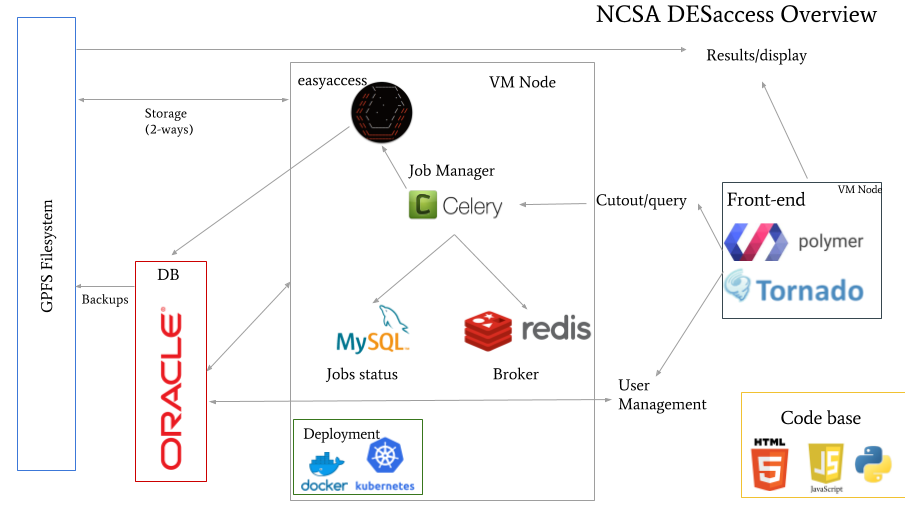
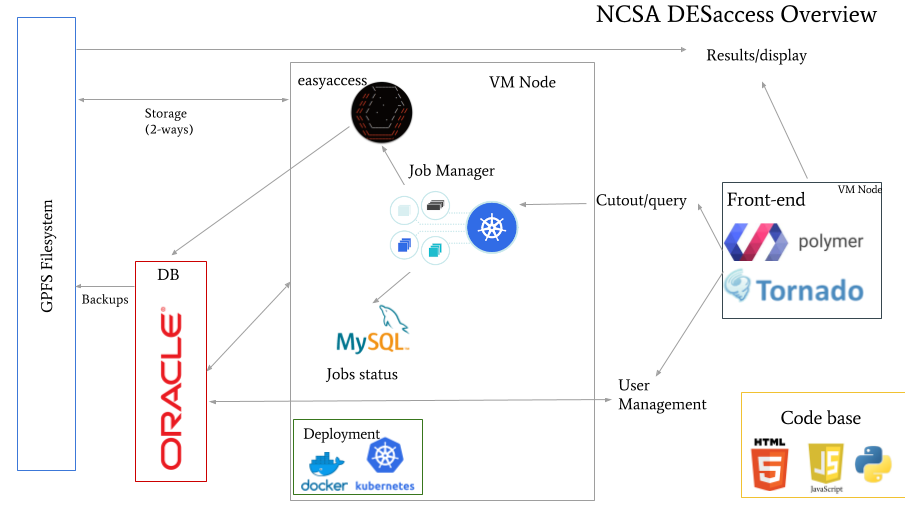
Updates reflecting new DESaccess deployment

Changed region(s): [[0.4331, 0.3557, 0.5878, 0.5336], [0.495, 0.5929, 0.6497, 0.7708]]

diff --git a/static/des_components/des-dr1/des-dr1-ncsa.html b/static/des_components/des-dr1/des-dr1-ncsa.html
@@ -27,20 +27,23 @@
     <paper-button class="desButton" raised on-tap="_goncsa">Go to DESaccess</paper-button>
     <br />
 
-         <p>NCSA provides the primary set of basic web applications to access DES DR1 data. Developed at NCSA, DESaccess provides the user with an asynchronized job submission interface to perform SQL statements against an  Oracle DB which contains the DES DR1 catalogs or to generate cutouts from a given list of positions from the coaddimages. It also contains information regarding the catalogs, an interactive footprint finder to locate positions and tiles and means to access images and catalogs in a tile-based format. Please read the <a href="[[rootPath]]terms">Terms and Conditions</a> before using these interfaces. <br />
+         <p>NCSA provides a primary set of basic web applications and a programmatic API to access DES DR1 data. Developed at NCSA, <a href="https://des.ncsa.illinois.edu/desaccess">DESaccess</a> provides an interface to submit asynchronous jobs that perform potentially lengthy operations involving the DES DR1 catalogs stored on the co-located Oracle database. These jobs include executing SQL statements and generating cutouts from the image data given list of positions and desired areal dimensions. <a href="https://des.ncsa.illinois.edu/desaccess">DESaccess</a> also contains information regarding the catalogs and an app to locate data in a tile-based format by coordinate or tile name for direct download. Please read the <a href="[[rootPath]]terms">Terms and Conditions</a> before using these interfaces. </p>
 
-             The main services can be summarized as follows:</p>
+             <p>The main services can be summarized as follows:</p>
              <p>
-               <strong>SQL web client:</strong> We provide a SQL web client that allows the user to submit asynchronous query jobs against the Oracle 12 database which contains the DES DR1 tables, the submitted jobs enter into a queue and results can be retrieved at later times in either csv, FITS (<a href="http://adsabs.harvard.edu/abs/1981A%26AS...44..363W">Wells et al. 1981</a>) or HDF5 (<a href="http://www.hdfgroup.org/HDF5/">The HDF Group 1997-NNNN</a>) file format, supporting compression in some of the cases. Big jobs are divided into chunks of 1.5GB to facilitate file transfer. This interface also provides means to check syntax and to evaluate synchronous jobs for a quick view. Result files are served from a HTTP server which allows file transfer to remote machines. The query used and the results are persisted for a limited period of time under a “My-Jobs” tab. The query interface is powered using <a href="https://github.com/mgckind/easyaccess">easyaccess</a>, a enhance SQL command line interpreter designed for astronomical surveys and developed for DES.</p>
+               <strong>SQL web client:</strong> We provide a SQL web client that allows the user to submit asynchronous query jobs against the Oracle 12 database which contains the DES DR1 tables. The submitted jobs enter a queue and results can be retrieved when the job completes in one of several file formats, including CSV, FITS (<a href="http://adsabs.harvard.edu/abs/1981A%26AS...44..363W">Wells et al. 1981</a>) and HDF5 (<a href="http://www.hdfgroup.org/HDF5/">The HDF Group 1997-NNNN</a>), supporting compression in some of the cases. Big jobs are divided into smaller chunks to facilitate file transfer. This interface also provides a means to check syntax and to run shorter, synchronous jobs for quick results. The query interface is powered by <a href="https://github.com/des-labs/easyaccess">easyaccess</a>, an enhanced SQL command line interpreter designed for astronomical surveys and developed for DES.</p>
              <p>
-               <strong>Cutout server:</strong> The cutout server allows the user to generate cutouts up to 15' on a side centered on a given set of positions, the returned files include all the cutouts in all the bands, a cutout in the detection image, a color TIFF image using STIFF (<a href="http://adsabs.harvard.edu/abs/2012ASPC..461..263B">Bertin 2012</a>) by combining the g, r and i bands, and a PNG image. These cutout jobs also go into a queue and results can retrieve later from the files served remotely. The header of the cutouts is a copy from the original header from the images with extra keys indicating the center of the cutout RA_CUTOUT and DEC_CUTOUT. Results are preserved for a limit period of time and can also be retrieved under a “My-Jobs” tab within the web service. No stitching is performed for objects near the edge of the tile. This feature might be added in the future.</p>
+               <strong>Cutout server:</strong> The cutout server allows the user to generate cutouts from the survey image data centered on a given set of positions, with areal dimensions up to 12 arcminutes on a side. Returned files may include image data cutouts in the selected bands in FITS format as well as tri-color composite images in PNG format generated using the STIFF (<a href="http://adsabs.harvard.edu/abs/2012ASPC..461..263B">Bertin 2012</a>) format or the Lupton method. The header of the cutout files is a copy from the original header from the images with extra keys indicating the center of the cutout RA_CUTOUT and DEC_CUTOUT. No stitching is performed for objects near the edge of the tile.</p>
              <p>
-               <strong>Footprint:</strong> A light-weight interactive tool which displays the DES footprint and its tiles. This tool can be used to search for a position in the sky and return the tile information regarding the tile name, corner coordinates, and list of files for download. It also allows searches by tilename when the name is available. This service also provides access to all the processed tiles,  including images and catalogs in a tile based directly from the file server.</p>
+               <strong>TileFinder:</strong> A light-weight interactive tool which returns direct data tile download links matching the search query, which can be either sky RA/DEC coordinates or the explicit tile name. This service also provides access to all the processed tiles, including images and catalogs in a tile based directly from the file server.</p>
+              <p>
+                Job output files are served from a standard HTTP server to enable file transfer to remote machines. Job information and links to the generated files remain available for a limited duration, providing time to download results before clearing the space for other users.
+              </p>
              <p>
-               <a href="https://github.com/mgckind/desaccess">DESaccess code</a> as well as the <a href="https://github.com/mgckind/des_public_new">release page</a> are open sourced. The frontend was developed using web components, HTML, JS and <a href="https://www.polymer-project.org/">Polymer</a> which allows the re-use of already existing elements. The backend is mainly developed using the Python <a href="http://www.tornadoweb.org/en/stable/">Tornado web framework</a>. The submission jobs are handled by <a href="http://www.celeryproject.org/">Celery</a> which is a distributed queue manager written in Python. All of these applications are containerized using <a href="https://www.docker.com/">Docker</a> and all the nodes resources and scheduling, as well as all the deployment, is managed by <a href="https://kubernetes.io/">Kubernetes</a> which allows to run, manage and scale containerized applications in a robust and efficient manner.</p>
+               The code powering DESaccess as well as the DES release site are <a href="https://github.com/des-labs">open source</a>. The DESaccess website is built HTML, JS and <a href="https://www.polymer-project.org/">LitElement from the Polymer Project</a> that provides a reusable web component framework. The DESaccess API server and job management system are written in Python and use packages including the <a href="http://www.tornadoweb.org/en/stable/">Tornado web framework</a> and the <a href="https://kubernetes.io/docs/reference/using-api/client-libraries/">Kubernetes</a> <a href="https://github.com/kubernetes-client/python/">Python API</a>. All of these applications are containerized using <a href="https://www.docker.com/">Docker</a> and run within a <a href="https://kubernetes.io/">Kubernetes cluster</a>, providing a robust system enabling high-availability services with scalable deployments and efficient resource usage.</p>
 
             <des-img-big  src="{{rootPath}}static/images/DESaccess.png" on-tap="_dialog" data-item="3">
-            Figure 3. Schema for DESaccess arquitecture
+            Schema for DESaccess architecture
             </des-img-big>
 
              <p>
@@ -53,7 +56,7 @@
     class DesDr1NCSA extends Polymer.Element {
       static get is() { return 'des-dr1-ncsa'; }
       _goncsa() {
-          var win = window.open('/easyweb/', '_blank');
+          var win = window.open('/desaccess/', '_blank');
           win.focus();
       }
       _top() {this.$.ncsa_top.scrollIntoView();}

diff --git a/static/des_components/des-dr1/des-dr1-faq.html b/static/des_components/des-dr1/des-dr1-faq.html
@@ -244,7 +244,7 @@ font-family:  "Courier New", Courier, monospace;
 <div class="fixup" id="faq7"></div>
 <h3 class="fixdown">7. How do I find out if my object/location on the sky is in the DES footprint?  &nbsp; &nbsp; <a style="font-size:0.72rem" href="javascript:void(0)" on-tap="_top">(Top)</a></h3>
 
-<p class="answer">You can use the interactive tools, <a href="https://des.ncsa.illinois.edu/easyweb/footprint">Here</a> or here <a href="https://desportal2.cosmology.illinois.edu/dri/apps/home/">Here</a> .  Using Healpix you can locate a position (or a set of positions) within a Healpix cell, then you can select the cell and the objects within directly from the DR1 DB. HPIX resolutions in NESTED schema are available at nside = 32, 64, 1024,4096,16384</p>
+<p class="answer">You can use the interactive tools such as <a href="https://des.ncsa.illinois.edu/desaccess/tilefinder" target="_blank">DESaccess TileFinder</a> or <a href="http://desportal.cosmology.illinois.edu/" target="_blank">LIneA Science Server apps</a> .  Using Healpix you can locate a position (or a set of positions) within a Healpix cell, then you can select the cell and the objects within directly from the DR1 DB. HPIX resolutions in NESTED schema are available at nside = 32, 64, 1024,4096,16384</p>
 
 <p><br/></p>
 <div class="fixup" id="faq8"></div>

diff --git a/static/des_components/des-dr1/des-dr1-access.html b/static/des_components/des-dr1/des-dr1-access.html
@@ -100,7 +100,7 @@
     From these institutions, a rich and complementary set of tools and interfaces were developed to access and interact with DES data in different ways that cover a broad set of use cases which enable scientific discovery.
     For the moment, NCSA and LIneA services are linked to the same account. <br />
     To <b>register</b> visit:
-    <a href="https://des.ncsa.illinois.edu/easyweb/signup/" target="_blank">https://des.ncsa.illinois.edu/easyweb/signup/</a>
+    <a href="https://des.ncsa.illinois.edu/desaccess/login/" target="_blank">https://des.ncsa.illinois.edu/desaccess/login/</a>
     </p>
     <p>
         To learn more about the DES DR1 services use the following links:
@@ -132,7 +132,7 @@
     class desDr1Access extends Polymer.Element {
       static get is() { return 'des-dr1-access'; }
       _goncsa() {
-          var win = window.open('/easyweb/', '_blank');
+          var win = window.open('/desaccess/', '_blank');
           win.focus();
       }
       _gonoao() {
@@ -144,7 +144,7 @@
           win.focus();
       }
       _goregister(e) {
-          var win = window.open('/easyweb/signup/', '_blank');
+          var win = window.open('/desaccess/login/', '_blank');
           win.focus();
       }
       _goregisterNOAO(e) {

diff --git a/static/des_components/des-dr1/des-dr1-access-backup.html b/static/des_components/des-dr1/des-dr1-access-backup.html
@@ -131,7 +131,7 @@ The LIneA Science Server provides visualization and query tools for the user to 
     class desDr1Access extends Polymer.Element {
       static get is() { return 'des-dr1-access'; }
       _goncsa() {
-          var win = window.open('/easyweb/', '_blank');
+          var win = window.open('/desaccess/', '_blank');
           win.focus();
       }
       _gonoao() {
@@ -143,7 +143,7 @@ The LIneA Science Server provides visualization and query tools for the user to 
           win.focus();
       }
       _goregister(e) {
-          var win = window.open('/easyweb/signup/', '_blank');
+          var win = window.open('/desaccess/login/', '_blank');
           win.focus();
       }
       _goregisterNOAO(e) {

diff --git a/static/des_components/elements-built.html b/static/des_components/elements-built.html
@@ -46938,7 +46938,7 @@ and d.imaflags_iso_r = 0 and d.flags_r &lt; 4 and<br>
     class DesDr1NCSA extends Polymer.Element {
       static get is() { return 'des-dr1-ncsa'; }
       _goncsa() {
-          var win = window.open('/easyweb/', '_blank');
+          var win = window.open('/desaccess/', '_blank');
           win.focus();
       }
       _top() {this.$.ncsa_top.scrollIntoView();}
